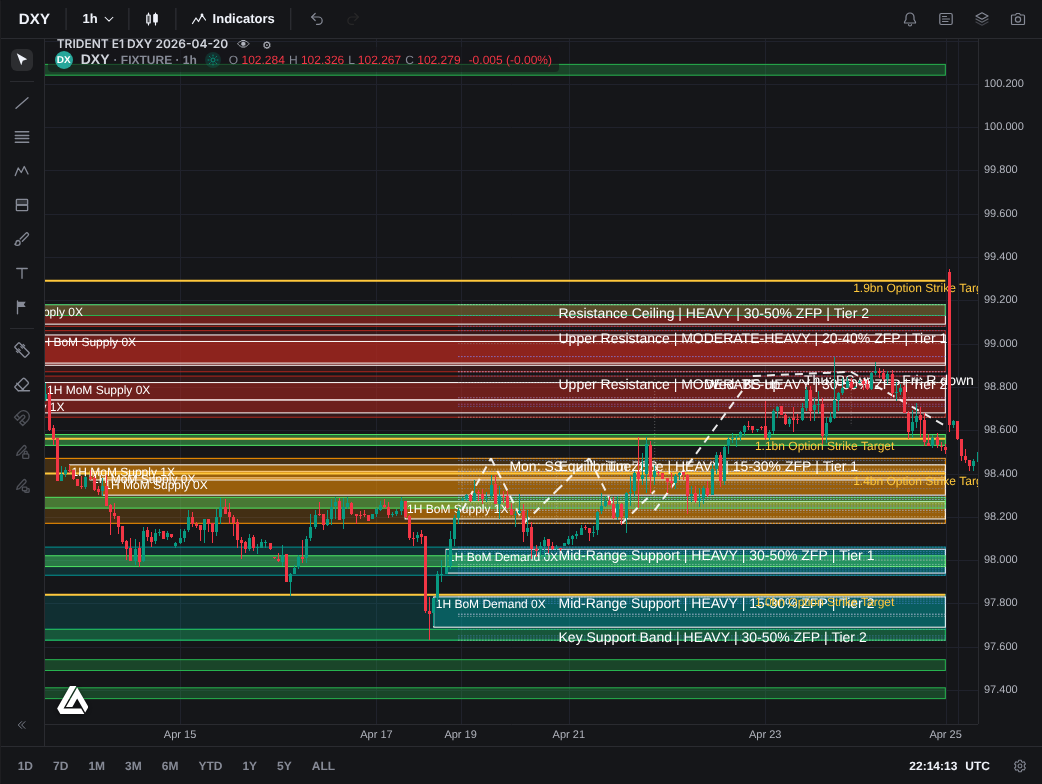
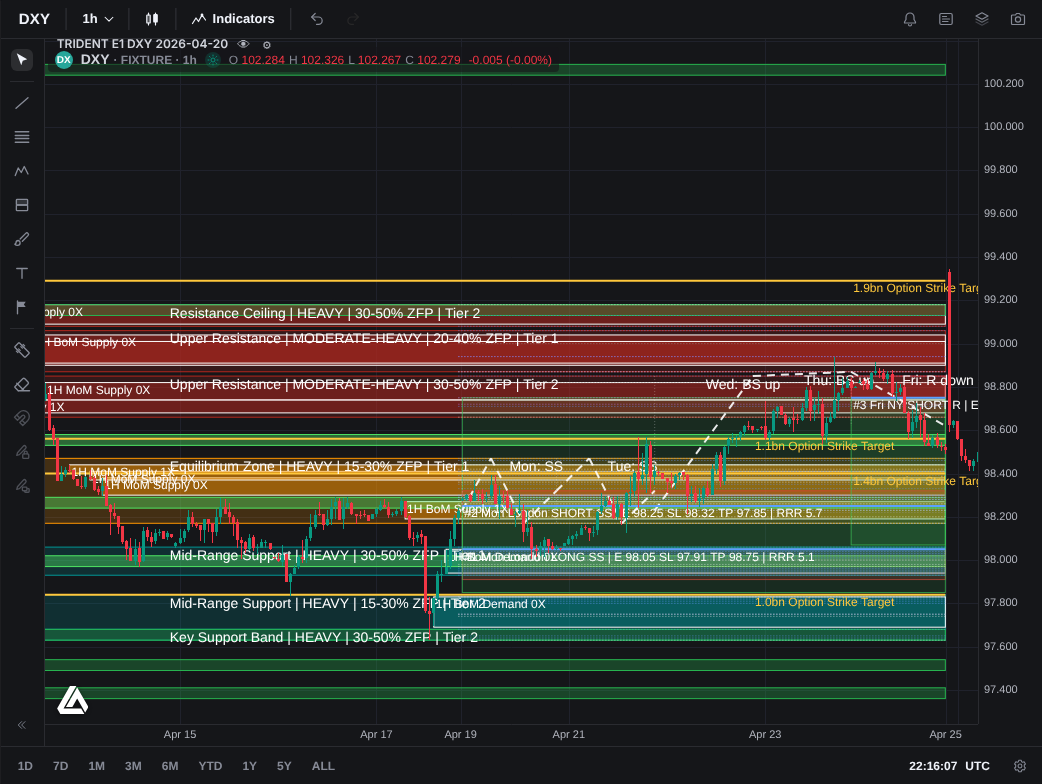
E3 v1: setups anchored to E1 zones + E2 days, entry/SL/TP, RRR floor, fill simulation; rendered in the Pine
Claude-Session: https://claude.ai/code/session_01Eis2qBbofvMAifYJzweUMT

diff --git a/e1_tool/e3_setups.py b/e1_tool/e3_setups.py
@@ -1,0 +1,142 @@
+"""e3_setups.py - ENGINE 3: TRADE SETUPS. Binding spec: canon/Toolset/TRIDENT_v5.3.3_CORRECTED_E3_ENGINE.md (R-16).
+R3 law: E2 designates, E3 obeys - every setup is anchored to an E1 zone + an E2 shape day; E3 only resolves entry / SL / TP geometry.
+Implemented phases: 0 setup universe per shape (8.0.1), 1 working-day map (8.0.2), 2 zone selection + freshness gate (8.1), 3 TS-1 entry (8.2),
+4 SL ladder-steps rule (a) + TP at the opposing zone with the opposing-rung walk for RRR (8.3), RRR floor 3.0 (8.20), cap 11 per week per pair."""
+import e1_data as D, e1_pillars as P
+
+BUF = {'EURUSD': 2, 'GBPUSD': 3, 'DXY': 3}            # per-pair SL buffer, pips (8.3 Law 7; '3 pips outside the back edge')
+RRR_FLOOR, SL_MAX_PIPS, CAP = 3.0, 36, 11
+DAYMS = 86400000
+SESSION = {'Consolidation': ('London', 6, 11), 'Reversal': ('NY', 12, 20), 'HTF Swing': ('NY', 12, 20), 'Transition': ('NY', 12, 20)}   # UTC hours within the trading day
+
+
+def side(z):
+    return z['side']                                   # 'Supply' (short anchor) / 'Demand' (long anchor)
+
+
+def anchor_band(z, direction, approach_from):
+    """F1-C / TS-1: the entry band is the internal structure nearest the approaching price (a 1H candle or the sweep rung); else the zone"""
+    bands = [(s['bot'], s['top']) for s in z['structs']] + [(s['bot'], s['top']) for s in z['sweeps']]
+    if not bands:
+        return z['bot'], z['top']
+    return min(bands, key=lambda b: abs((b[0] if direction == 'SHORT' else b[1]) - approach_from))
+
+
+def build(pair, monday, r):
+    pip = D.PIP[pair]
+    e2 = r['e2']
+    zs = sorted(r['zones'], key=lambda z: z['bot'])
+    out, used = [], set()
+
+    def candidate(day, z, direction, category, shape):
+        if (direction == 'LONG') != (side(z) == 'Demand'):
+            return None                                 # never anchor LONGs at supply / SHORTs at demand (8.1)
+        if any(s['mit'] > 2 for s in z['structs']):
+            return None                                 # freshness gate: 3rd+ battle = TP target only
+        key = (id(z), direction)
+        if key in used:
+            return None                                 # per-anchor emission cap / dedup identity
+        ref = day['path'][0][1]
+        lo, hi = anchor_band(z, direction, ref)
+        if direction == 'SHORT':
+            entry = lo + (pip if z['structs'] else 0)   # TS-1: bottom edge of supply; F1-A: order-block shorts lifted 1 pip
+            sl = hi + BUF[pair] * pip
+            opp = [t for t in zs if side(t) == 'Demand' and t['top'] < entry][::-1]
+        else:
+            entry = hi                                  # TS-1: top edge of demand
+            sl = lo - BUF[pair] * pip
+            opp = [t for t in zs if side(t) == 'Supply' and t['bot'] > entry]
+        risk = abs(entry - sl)
+        if risk <= 0 or risk > SL_MAX_PIPS * pip:
+            return None
+        tp = rrr = tz = None
+        for t in opp:                                   # Law 14: walk the opposing rungs until the RRR floor is met
+            near = t['top'] if direction == 'SHORT' else t['bot']
+            strong = t['tier'].startswith('Tier 1') or t['score'] >= 10
+            p = near + (pip if direction == 'SHORT' else -pip) if strong else (t['bot'] + t['top']) / 2     # strong zone: near edge + 1 pip spread; else midpoint
+            q = abs(p - entry) / risk
+            if q >= RRR_FLOOR:
+                tp, rrr, tz = p, q, t
+                break
+        if tp is None:
+            return None
+        used.add(key)
+        ses = SESSION[category]
+        return {'day': day['day'], 'dayidx': ['Mon', 'Tue', 'Wed', 'Thu', 'Fri'].index(day['day']), 'shape': shape, 'category': category, 'dir': direction, 'zone': z['name'], 'zone_rng': (z['bot'], z['top']),
+                'entry': entry, 'sl': sl, 'tp': tp, 'rrr': rrr, 'tp_zone': tz['name'], 'session': ses[0], 't0': day['t0'], 't1': day['t1'], 'tier': z['tier'][:6], 'score': z['score']}
+
+    for day in e2['days']:
+        ref = day['path'][0][1]
+        above = [z for z in zs if z['bot'] >= ref or z['bot'] <= ref <= z['top']]
+        below = [z for z in zs if z['top'] <= ref or z['bot'] <= ref <= z['top']][::-1]
+        sup = [z for z in above if side(z) == 'Supply']
+        dem = [z for z in below if side(z) == 'Demand']
+        sh, dr = day['shape'], day['dir']
+        if sh in ('SS', 'WLS') or (sh == 'R' and dr == 'range'):
+            # Consolidation: swing scalps both directions at the range boundaries
+            for z, d in ((dem[0] if dem else None, 'LONG'), (sup[0] if sup else None, 'SHORT')):
+                if z:
+                    c = candidate(day, z, d, 'Consolidation', sh)
+                    if c: out.append(c)
+        elif sh in ('BS', 'PBS'):
+            # HTF swing with the move: anchor = the nearest zone behind price on the move's side (demand for up, supply for down)
+            z = (dem[0] if dem else None) if dr == 'up' else (sup[0] if sup else None)
+            if z:
+                c = candidate(day, z, 'LONG' if dr == 'up' else 'SHORT', 'HTF Swing', sh)
+                if c: out.append(c)
+        elif sh in ('WL', 'RWL', 'R'):
+            # Reversal at the zone that rejects: after an up move the short anchors at the supply reached; after a down move the long at the demand reached
+            tgt = day['path'][1][1] if sh == 'WL' else day['path'][0][1]
+            if (sh == 'WL' and dr == 'up') or (sh != 'WL' and dr == 'down'):
+                zz = [z for z in zs if side(z) == 'Supply' and z['top'] >= tgt - 5 * pip]
+                d = 'SHORT'
+            else:
+                zz = [z for z in zs if side(z) == 'Demand' and z['bot'] <= tgt + 5 * pip][::-1]
+                d = 'LONG'
+            if zz:
+                c = candidate(day, zz[0], d, 'Reversal', sh)
+                if c: out.append(c)
+    out = out[:CAP]
+    for i, s in enumerate(out):
+        s['n'] = i + 1
+    return out
+
+
+def simulate(pair, monday, setups):
+    """what the week's 1H candles did to each setup (post-boundary data; description only). Fill window = from the setup's day to the week's end."""
+    b0 = D.boundary_ms(monday)
+    bars = [x for x in D.bars(pair, '60') if b0 <= x['time'] < b0 + 7 * DAYMS]
+    for s in setups:
+        long = s['dir'] == 'LONG'
+        st, fill = 'not filled', None
+        for x in bars:
+            if x['time'] < s['t0']:
+                continue
+            if fill is None:
+                if x['low'] <= s['entry'] <= x['high']:
+                    fill = x['time']
+                    if (x['low'] <= s['sl']) if long else (x['high'] >= s['sl']):
+                        st = 'SL'; break
+                continue
+            hit_sl = (x['low'] <= s['sl']) if long else (x['high'] >= s['sl'])
+            hit_tp = (x['high'] >= s['tp']) if long else (x['low'] <= s['tp'])
+            if hit_sl:
+                st = 'SL'; break
+            if hit_tp:
+                st = 'TP'; break
+        if fill is not None and st == 'not filled':
+            last = bars[-1]['close']
+            st = 'open %+.1fR' % (((last - s['entry']) if long else (s['entry'] - last)) / abs(s['entry'] - s['sl']))
+        s['result'], s['fill'] = st, fill
+    return setups
+
+
+if __name__ == '__main__':
+    import sys, e1_pine as G
+    monday, pair = sys.argv[1], sys.argv[2] if len(sys.argv) > 2 else 'DXY'
+    r = G.run(pair, monday)
+    f = '%.2f' if pair == 'DXY' else '%.4f'
+    ss = simulate(pair, monday, build(pair, monday, r))
+    print(f"ENGINE 3 {pair} {monday} | E2: {r['e2']['primary']}")
+    for s in ss:
+        print(f"  #{s['n']} {s['day']} {s['session']:<6} {s['dir']:<5} {s['category']:<13} [{s['shape']}] at {s['zone']} {f % s['zone_rng'][0]}-{f % s['zone_rng'][1]} | E {f % s['entry']} SL {f % s['sl']} TP {f % s['tp']} ({s['tp_zone']}) RRR {s['rrr']:.1f} | {s['result']}{' filled ' + D.ts(s['fill'])[5:13] + 'h' if s['fill'] else ''}")

diff --git a/e1_tool/e1_pine.py b/e1_tool/e1_pine.py
@@ -22,7 +22,7 @@ def generate(pair, monday, r):
     o = ['//@version=6', f'indicator("TRIDENT E1 {pair} {monday}", overlay=true, max_boxes_count=500, max_labels_count=500, max_lines_count=500)',
          f'// Engine 1 map for the week of {monday} ({pair}); every number below was computed by e1_tool from data closed before the boundary {D.ts(b0)} UTC',
          'show_zones = input.bool(true, "IP Zones")', 'show_candles = input.bool(true, "Candle structures (A)")', 'show_levels = input.bool(true, "Computed levels (B)")',
-         'show_lsz = input.bool(true, "LSZ")', 'show_e2 = input.bool(true, "E2 shape chain")', 'show_infill = input.bool(true, "Gap in-fill levels")', 'show_options = input.bool(true, "Option Strikes")',
+         'show_lsz = input.bool(true, "LSZ")', 'show_e2 = input.bool(true, "E2 shape chain")', 'show_e3 = input.bool(true, "E3 trade setups")', 'show_infill = input.bool(true, "Gap in-fill levels")', 'show_options = input.bool(true, "Option Strikes")',
          f'isPair = str.contains(syminfo.ticker, "{D.SYM[pair].split("_")[-1]}")', 'if barstate.islast and isPair']
     for z in r['zones']:
         c = '%d,%d,%d' % CAT[z['cat']]
@@ -77,6 +77,16 @@ def generate(pair, monday, r):
             txt = d['day'] + ': ' + d['shape'] + ('' if d['dir'] == 'range' else ' ' + d['dir'])
             o.append(f"        label.new({(d['t0'] + d['t1']) // 2}, {g(top)}, \"{txt}\", xloc=xloc.bar_time, style=label.style_label_down, color=color.new(color.rgb(40,60,120), 10), textcolor=color.white, size=size.normal)")
             o.append(f"        line.new({d['t0']}, {g(top)}, {d['t0']}, {g(min(p for _, p in d['path']))}, xloc=xloc.bar_time, color=color.new(color.white, 70), width=1, style=line.style_dotted, extend=extend.both)")
+    # ── ENGINE 3: trade setups (entry / SL / TP), each on its E2 day
+    if r.get('e3'):
+        o.append('    if show_e3')
+        for t in r['e3']:
+            tE = tsR
+            o.append(f"        box.new({t['t0']}, {g(max(t['entry'], t['tp']))}, {tE}, {g(min(t['entry'], t['tp']))}, bgcolor=color.new(color.rgb(60,200,90), 88), border_color=color.new(color.rgb(60,200,90), 30), border_width=1, xloc=xloc.bar_time)")
+            o.append(f"        box.new({t['t0']}, {g(max(t['entry'], t['sl']))}, {tE}, {g(min(t['entry'], t['sl']))}, bgcolor=color.new(color.rgb(230,60,60), 80), border_color=color.new(color.rgb(230,60,60), 30), border_width=1, xloc=xloc.bar_time)")
+            o.append(f"        line.new({t['t0']}, {g(t['entry'])}, {tE}, {g(t['entry'])}, xloc=xloc.bar_time, color=color.rgb(90,160,255), width=2)")
+            txt = f"#{t['n']} {t['day']} {t['session']} {t['dir']} {t['shape']} | E {g(t['entry'])} SL {g(t['sl'])} TP {g(t['tp'])} | RRR {t['rrr']:.1f}"
+            o.append(f"        label.new({t['t0']}, {g(t['entry'])}, \"{txt}\", xloc=xloc.bar_time, style=label.style_label_{'up' if t['dir'] == 'LONG' else 'down'}, color=color.new(color.rgb(20,40,90), 0), textcolor=color.white, size=size.small)")
     return '\n'.join(o) + '\n'
 
 
@@ -87,6 +97,8 @@ def run(pair, monday, K=None):
     exp = [dict(e, day=e.get('cut_date', '')[5:]) for e in side['expiries'].get('EURUSD' if pair == 'DXY' else pair, [])]
     r = Z.build(pair, monday, exp, K, spot)
     r['e2'] = E2.chain(pair, monday, r)
+    import e3_setups as E3
+    r['e3'] = E3.build(pair, monday, r)
     return r
 
 

diff --git a/memory/05_JOURNAL.md b/memory/05_JOURNAL.md
@@ -223,3 +223,12 @@ NOT BUILT YET: e1_report.py (the report's audit sections), Step 0d/0e D1 order b
 - Pine: E2 drawn as white dashed projected path + day labels (toggle show_e2). First frame (anchor week): path = Mon-Tue SS inside Equilibrium, Wed-Thu BS up into Upper Resistance, Fri R down - the candles did Mon dip/SS, Tue-Wed up, Thu high in Upper Resistance, Fri down. Direction and sequence match; timing ~1 day early at the start.
 - e2 text check on other weeks: Jul 27 DXY 4/5 days same shape as my day classifier; Apr 27 and Aug 17 poor (predicted SS / BS up; week sold off). To investigate after E3 exists on the anchor week.
 - E3 canon extract saved: e1_tool/canon_extract/P533_lines_2058-3210_ENGINE3_and_trade_structure.md; binding E3 spec = canon/Toolset/TRIDENT_v5.3.3_CORRECTED_E3_ENGINE.md (R-16).
+
+## 2026-11-26 - E3 v1 built (e1_tool/e3_setups.py), wired into the Pine (show_e3), first run on the anchor week
+- build(): per E2 day -> setup universe (SS/R-range: Consolidation LONG at nearest demand zone below + SHORT at nearest supply above; BS/PBS: HTF Swing with the move from the zone behind price; WL/RWL/R: Reversal at the zone reached).
+  Entry TS-1 = near edge of the internal band (1H candle / sweep rung) closest to approaching price (+1 pip lift for order-block shorts, F1-A); SL = 3 pips (EU 2, GU 3, DXY 3) outside that band's far edge (ladder rule a), max 36 pips;
+  TP = opposing-zone walk until RRR >= 3.0 (strong zone: near edge + 1 pip; else midpoint); freshness: no zone with a candle >2X; one setup per zone per direction; cap 11. Sessions: Consolidation = London, others = NY.
+- simulate(): fill from the setup's day to week end on 1H bars; SL counted first on an ambiguous bar. Description only.
+- Anchor week DXY Apr 20-24: #1 Mon LONG at Mid-Range Support E 98.05 SL 97.91 TP 98.75 RRR 5.1 -> TP hit; #2 Mon SHORT in Equilibrium E 98.25 -> SL; #3 Fri SHORT at Upper Resistance E 98.75 TP 98.07 -> filled, open +2.4R at week end.
+  Only 3 setups: the BS days produce none because the demand zone was already used by #1 (dedup). Jul 27: 2 setups (1 SL, 1 not filled). NEXT: more of the spec (reinforcements on BS days, re-entry rules, SS scalps inside the range on 30m/15m), then pixel check.
+- Entry point for everything is still `e1_tool/e1 MONDAY PAIR` / `tools/e1render PAIR MONDAY` (Pine now carries E1 + E2 + E3 with toggles).
